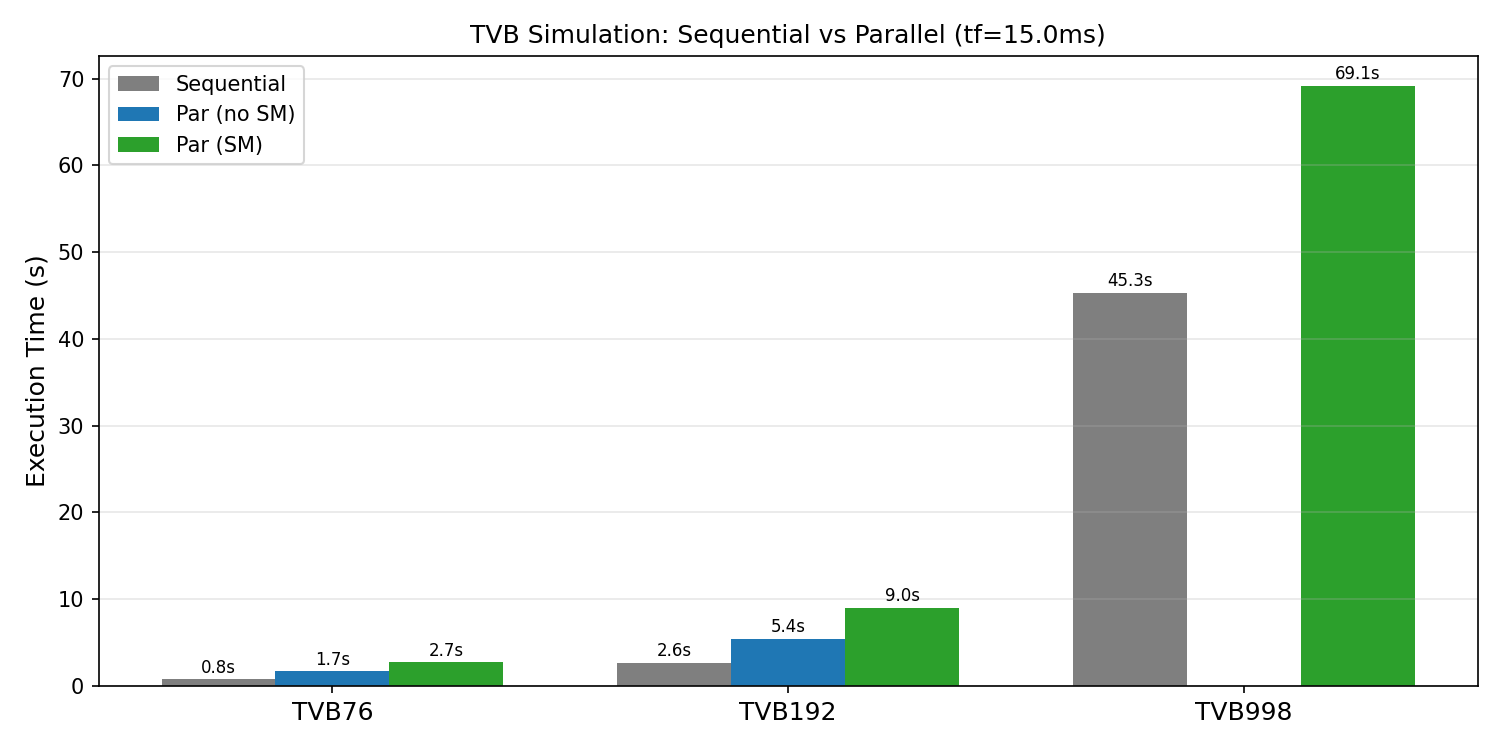
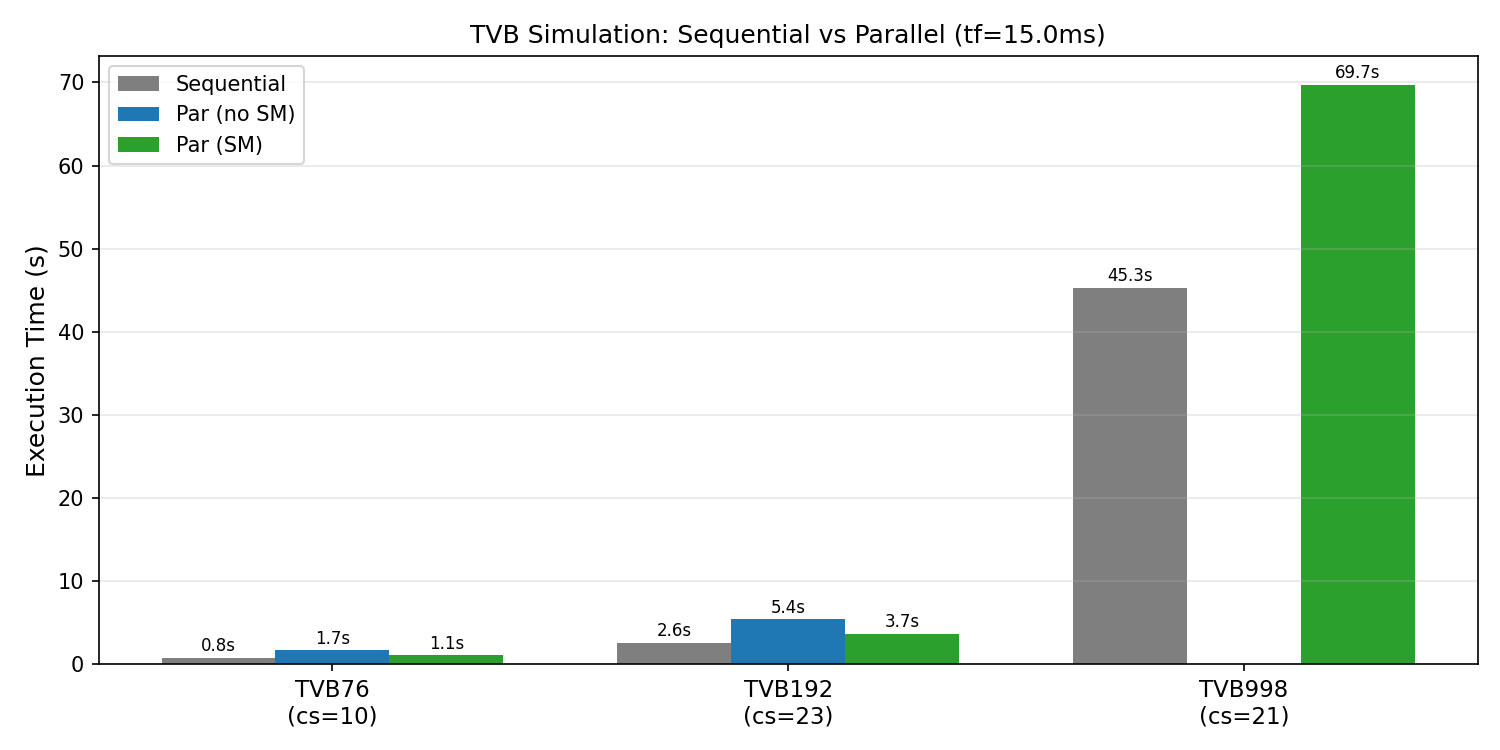
Lab2: sweep chunksize per-variant with early-stop, update SM plots
- sweep_chunksizes in tvb_par.py accepts simulate_fn and early_stop_streak;
  aborts after 3 consecutive increases past the running min
- tvb_par_sm and tvb_par_sm_imp now run sweep_chunksizes with their own
  simulate instead of reusing tvb_par.py optimal values
- Updated comparison plots with SM-specific optimal chunksizes
  (TVB76=10, TVB192=23, TVB998=21)

diff --git a/lab2_mp_mt/tvb_par_sm.py b/lab2_mp_mt/tvb_par_sm.py
@@ -137,11 +137,13 @@ if __name__ == "__main__":
     speed = 4.0         # signal speed in mm/ms
     freq = 1.0          # frequency parameter for the local dynamics
 
-    # Optimal chunk sizes from tvb_par.py sweep; TVB998 found via sweep below
+    # Reuse the chunksize sweep from tvb_par.py, but with this script's shared-memory simulate
+    from tvb_par import sweep_chunksizes
+
     DATASETS = [
-        ("TVB76",  data.tvb76_weights_lengths,  57),
-        ("TVB192", data.tvb192_weights_lengths, 135),
-        ("TVB998", data.tvb998_weights_lengths,  None),
+        ("TVB76",  data.tvb76_weights_lengths),
+        ("TVB192", data.tvb192_weights_lengths),
+        ("TVB998", data.tvb998_weights_lengths),
     ]
 
     # Known tvb_par.py (no shared memory) timings at optimal chunksize, tf=15ms
@@ -150,21 +152,15 @@ if __name__ == "__main__":
     seq_times    = {}   # sequential MLP baseline
     par_sm_times = {}   # this script (shared memory)
 
-    for label, loader, best_cs in DATASETS:
+    for label, loader in DATASETS:
         W, D = loader()
         N = len(W)      # number of centers
         print(f"\n=== {label} (N={N}) ===")
 
-        # --- find optimal chunksize for TVB998 via a small sweep ---
-        if best_cs is None:
-            sweep_cs = [125, 250, 500, 750]  # covers N/8 to 3N/4
-            sweep_times = []
-            for cs in sweep_cs:
-                _, _, t = simulate(W, D, N, M, dt, tf, speed, chunksize=cs)
-                print(f"  sweep chunksize={cs}: {t:.2f}s")
-                sweep_times.append(t)
-            best_cs = sweep_cs[int(np.argmin(sweep_times))]
-            print(f"  -> best chunksize for {label}: {best_cs}")
+        # --- find optimal chunksize via shared-memory sweep (reused from tvb_par.py) ---
+        chunk_sizes, sweep_times = sweep_chunksizes(W, D, N, M, dt, tf, speed, label, simulate_fn=simulate)
+        best_cs = chunk_sizes[int(np.argmin(sweep_times))]
+        print(f"  -> best chunksize for {label}: {best_cs}")
 
         # --- parallel shared-memory run at optimal chunksize ---
         _, _, t_sm = simulate(W, D, N, M, dt, tf, speed, chunksize=best_cs)

diff --git a/lab2_mp_mt/tvb_par_sm_imp.py b/lab2_mp_mt/tvb_par_sm_imp.py
@@ -135,28 +135,34 @@ if __name__ == "__main__":
     tf = 15.0           # final timestep of the simulation in ms
     speed = 4.0         # signal speed in mm/ms
 
-    # Optimal chunk sizes from tvb_par.py sweep
+    # Reuse the chunksize sweep from tvb_par.py with this script's improved SM simulate
+    from tvb_par import sweep_chunksizes
+
     DATASETS = [
-        ("TVB76",  data.tvb76_weights_lengths,  57),
-        ("TVB192", data.tvb192_weights_lengths, 135),
-        ("TVB998", data.tvb998_weights_lengths, 125),
+        ("TVB76",  data.tvb76_weights_lengths),
+        ("TVB192", data.tvb192_weights_lengths),
+        ("TVB998", data.tvb998_weights_lengths),
     ]
 
     # Known timings from prior runs at tf=15ms
     seq_times      = {"TVB76": 0.78,  "TVB192": 2.65,  "TVB998": 45.34}
     par_nosm_times = {"TVB76": 1.68,  "TVB192": 5.43,  "TVB998": None}
-    par_sm_times   = {"TVB76": 2.71,  "TVB192": 9.04,  "TVB998": 69.15}
+    par_sm_times   = {"TVB76": 1.11,  "TVB192": 3.70,  "TVB998": 69.69}
 
     par_sm_imp_times = {}   # this script (improved shared memory)
+    best_cs_imp      = {}
 
-    for label, loader, best_cs in DATASETS:
+    for label, loader in DATASETS:
         W, D = loader()
         N = len(W)      # number of centers
         print(f"\n=== {label} (N={N}) ===")
 
-        _, _, t_imp = simulate(W, D, N, M, dt, tf, speed, chunksize=best_cs)
-        par_sm_imp_times[label] = t_imp
-        print(f"  par_sm_imp (cs={best_cs}): {t_imp:.2f}s")
+        chunk_sizes, sweep_times = sweep_chunksizes(W, D, N, M, dt, tf, speed, label, simulate_fn=simulate)
+        best_cs = chunk_sizes[int(np.argmin(sweep_times))]
+        best_t  = min(sweep_times)
+        best_cs_imp[label] = best_cs
+        par_sm_imp_times[label] = best_t
+        print(f"  -> best chunksize for {label}: {best_cs} ({best_t:.2f}s)")
 
     # --- comparison table ---
     print("\n{:<8} {:>12} {:>12} {:>12} {:>14}".format(

diff --git a/lab2_mp_mt/tvb_par.py b/lab2_mp_mt/tvb_par.py
@@ -97,19 +97,39 @@ def sweep_tf(W, D, N, M, dt, tf_values, speed, chunksize, label):
     return times
 
 
-def sweep_chunksizes(W, D, N, M, dt, tf, speed, label):
-    # Log-spaced chunk sizes from 2 to N, always including N itself
+def sweep_chunksizes(W, D, N, M, dt, tf, speed, label, simulate_fn=None, early_stop_streak=3):
+    # Log-spaced chunk sizes from 2 to N, always including N itself.
+    # Early stop: once the running min has been seen, abort after `early_stop_streak`
+    # consecutive strictly-increasing samples (trend is clear; remaining cs only get worse).
+    if simulate_fn is None:
+        simulate_fn = simulate
     raw = np.geomspace(2, N, num=14, dtype=int)
     chunk_sizes = sorted(set(raw.tolist() + [N]))
 
     times = []
+    tested_cs = []
+    best_t = float('inf')
+    increasing_streak = 0
     print(f"\n--- {label} (N={N}) ---")
     for cs in chunk_sizes:
-        _, _, elapsed = simulate(W, D, N, M, dt, tf, speed, chunksize=cs)
+        _, _, elapsed = simulate_fn(W, D, N, M, dt, tf, speed, chunksize=cs)
         print(f"  chunksize={cs:4d}: {elapsed:.2f}s")
         times.append(elapsed)
+        tested_cs.append(cs)
 
-    return chunk_sizes, times
+        if elapsed < best_t:
+            best_t = elapsed
+            increasing_streak = 0
+        elif len(times) >= 2 and elapsed > times[-2]:
+            increasing_streak += 1
+        else:
+            increasing_streak = 0
+
+        if increasing_streak >= early_stop_streak:
+            print(f"  early stop: {increasing_streak} consecutive increases past min")
+            break
+
+    return tested_cs, times
 
 if __name__ == "__main__":
     M = 2               # number of state variables per center
